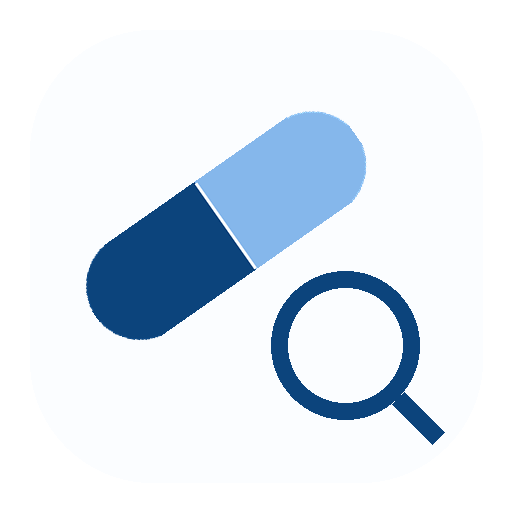
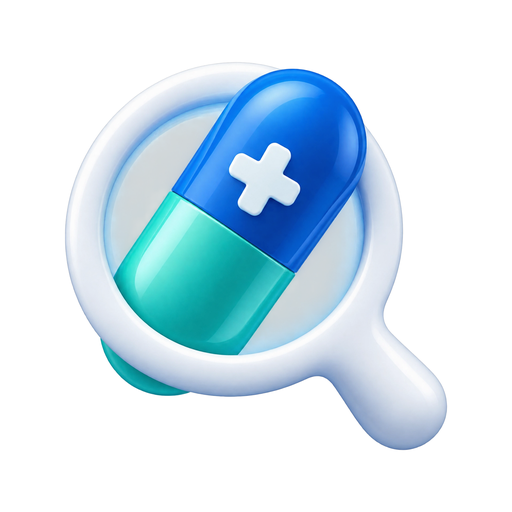
Add files via upload

diff --git a/index.html b/index.html
@@ -8,8 +8,8 @@
 <meta name="apple-mobile-web-app-title" content="找不到藥">
 <meta name="theme-color" content="#EFF6FC">
 <link rel="manifest" href="manifest.json">
-<link rel="apple-touch-icon" href="logo-new.png">
-<link rel="icon" href="logo-new.png">
+<link rel="apple-touch-icon" href="icon-192.png">
+<link rel="icon" href="icon-192.png">
 <title>找不到藥</title>
 <style>
   * { box-sizing: border-box; -webkit-tap-highlight-color: transparent; }
@@ -167,7 +167,7 @@
 <body>
 
 <div id="loginScreen" class="screen active">
-  <img class="logo" src="logo-new.png" alt="找不到藥" width="104" height="104">
+  <img class="logo" src="icon-512.png" alt="找不到藥" width="104" height="104">
   <p class="title-cn">找不到藥</p>
   <p class="title-en">FIND MEDICINE</p>
   <div class="login-card">

diff --git a/sw.js b/sw.js
@@ -1,5 +1,5 @@
-const CACHE_NAME = 'find-medicine-v5';
-const ASSETS = ['./', './index.html', './manifest.json', './logo-new.png', './line-icon.png'];
+const CACHE_NAME = 'find-medicine-v6';
+const ASSETS = ['./', './index.html', './manifest.json', './icon-192.png', './icon-512.png', './line-icon.png'];
 const FETCH_TIMEOUT = 3000; // 網路太慢時,等這麼久就直接用快取,不要一直卡著
 
 self.addEventListener('install', (e) => {
